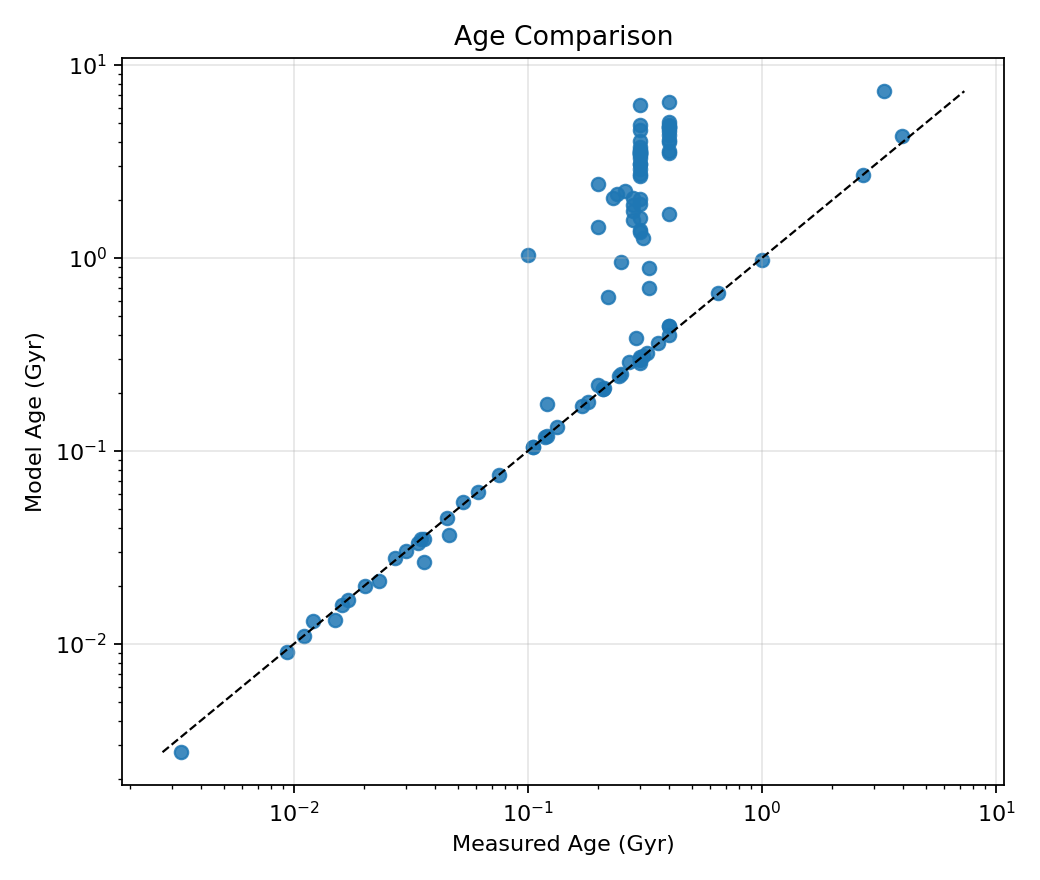
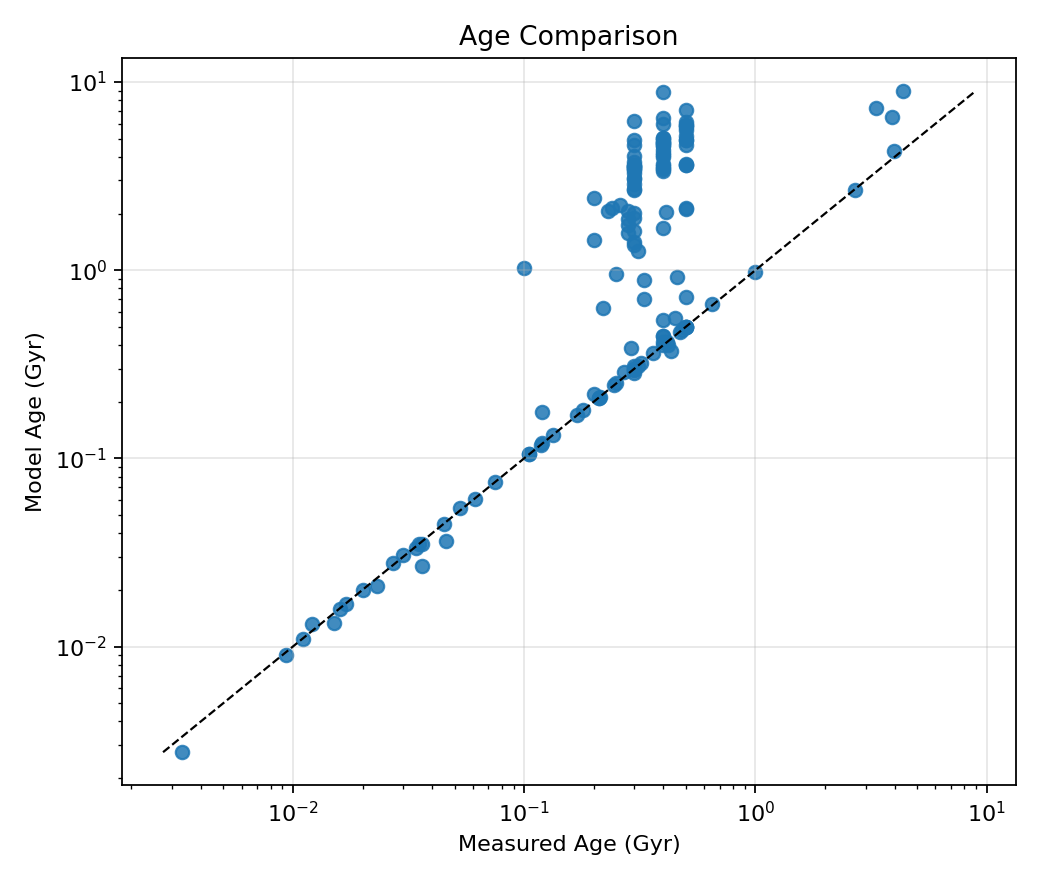
interpolator application

diff --git a/the_modelers/the_builders/interpolator_code/interpolator_testing.py b/the_modelers/the_builders/interpolator_code/interpolator_testing.py
@@ -90,8 +90,8 @@ if __name__ == "__main__":
     phot_csv = repo_root / "ASTR502_Master_Photometry_List.csv"
     out_dir = Path(__file__).resolve().parents[1] / "interpolator_outputs"
 
-    stars_to_run = ["Kepler-1979", "Kepler-1811", "Kepler-1900", "Kepler-1828", "Kepler-1797",
-                    "Kepler-1322", "Kepler-358", "Kepler-276", "Kepler-1679", "Kepler-1839"]
+    stars_to_run = ["WASP-59", "HATS-67", "Kepler-198", "Kepler-198", "HD 207496",
+                    "Qatar-5", "KOI-351", "Kepler-349", "TOI-1135", "TOI-444"]
 
     results_csv = args.results_csv
 
